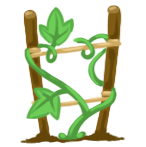
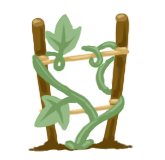
Adding 2 more enemies and adding capability to restrict enemies to start at certain waves. Stubbing out a music controller. Balancing towers.

diff --git a/Assets/Scripts/MusicController.cs b/Assets/Scripts/MusicController.cs
@@ -1,0 +1,16 @@
+using UnityEngine;
+
+public class MusicController : MonoBehaviour
+{
+    // Start is called once before the first execution of Update after the MonoBehaviour is created
+    void Start()
+    {
+        
+    }
+
+    // Update is called once per frame
+    void Update()
+    {
+        
+    }
+}

diff --git a/Assets/Scripts/WaveController.cs b/Assets/Scripts/WaveController.cs
@@ -81,9 +81,17 @@ public class WaveController : MonoBehaviour
 
     public void HandleSubWave()
     {
-        int rnd = Random.Range(0, AttackerPrefabs.Length);
+        List<GameObject> validAttackers = new List<GameObject>();
+        foreach(GameObject attPrefab in AttackerPrefabs)
+        {
+            if (waveIndex >= attPrefab.GetComponent<AttackerController>().StartSpawnWave)
+            {
+                validAttackers.Add(attPrefab);
+            }
+        }
+        int rnd = Random.Range(0, validAttackers.Count);
 
-        GameObject attacker = Instantiate(AttackerPrefabs[rnd], path[0].transform.position, Quaternion.identity);
+        GameObject attacker = Instantiate(validAttackers[rnd], path[0].transform.position, Quaternion.identity);
         attacker.GetComponent<AttackerController>().Initialize(new List<GameObject>(path), this, gc);
         attackers.Add(attacker.GetComponent<AttackerController>());
 

diff --git a/Assets/Scripts/TowerController.cs b/Assets/Scripts/TowerController.cs
@@ -13,7 +13,7 @@ public class TowerController : MonoBehaviour
     public int PlaceCost;
     public int UpgradeCost;
 
-    public int Range;
+    public float Range;
     public int Damage;
     public float AttackSpeed;
 
@@ -173,7 +173,7 @@ public class TowerController : MonoBehaviour
         Invoke("CheckAttack", GetAttackSpeed());
     }
 
-    public int GetRange()
+    public float GetRange()
     {
         return Range + ((level - 1) * UpgradeRange);
     }

diff --git a/Assets/Scripts/AttackerController.cs b/Assets/Scripts/AttackerController.cs
@@ -6,6 +6,7 @@ public class AttackerController : MonoBehaviour
     public int WavePoints;
     public float MaxHealth = 5f;
     public float moveSpeed = 2f;
+    public int StartSpawnWave;
 
     [HideInInspector] public WaveController wc;
     [HideInInspector] public GameController gc;
@@ -74,7 +75,7 @@ public class AttackerController : MonoBehaviour
             {
                 // Up (world up-left)
                 transform.localScale = new Vector3(origXScale, origYScale, 1);
-                transform.rotation = Quaternion.Euler(0, 0, -40f);
+                transform.rotation = Quaternion.Euler(0, 0, -15f);
             }
         }
         else

diff --git a/Assets/Scripts/GameController.cs b/Assets/Scripts/GameController.cs
@@ -62,7 +62,7 @@ public class GameController : MonoBehaviour
 
             if (targetDayCycle > curDayCycle)
             {
-                curDayCycle += Time.deltaTime * .005f;
+                curDayCycle += Time.deltaTime * .0075f;
             }
 
             dayNightCycle.timeOfDay = curDayCycle;

diff --git a/Assets/Scripts/IsoMapGenerator.cs b/Assets/Scripts/IsoMapGenerator.cs
@@ -211,7 +211,7 @@ public class IsoMapGenerator : MonoBehaviour
                     point.x,
                     point.y
                 ) - mapCenter;
-
+            waypoint.transform.position += new Vector3(0, 0.08f, 0);
             waypoints.Add(waypoint);
         }
 